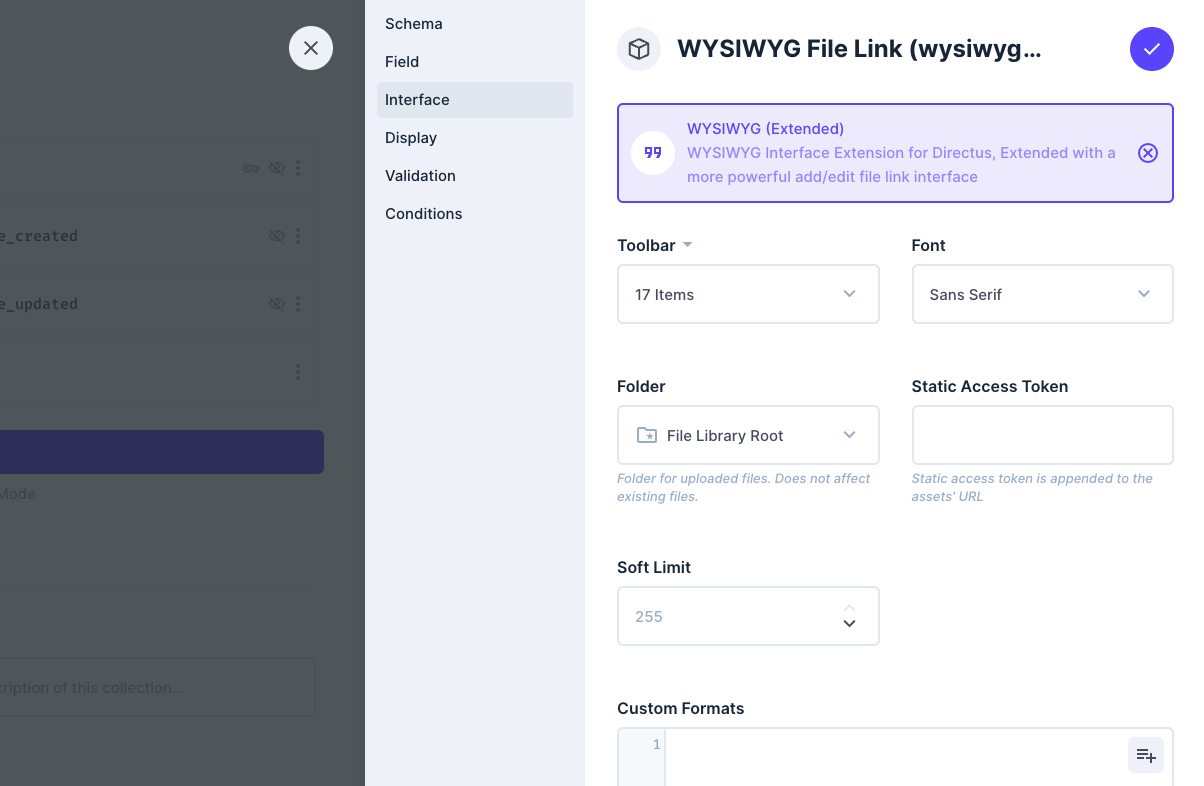
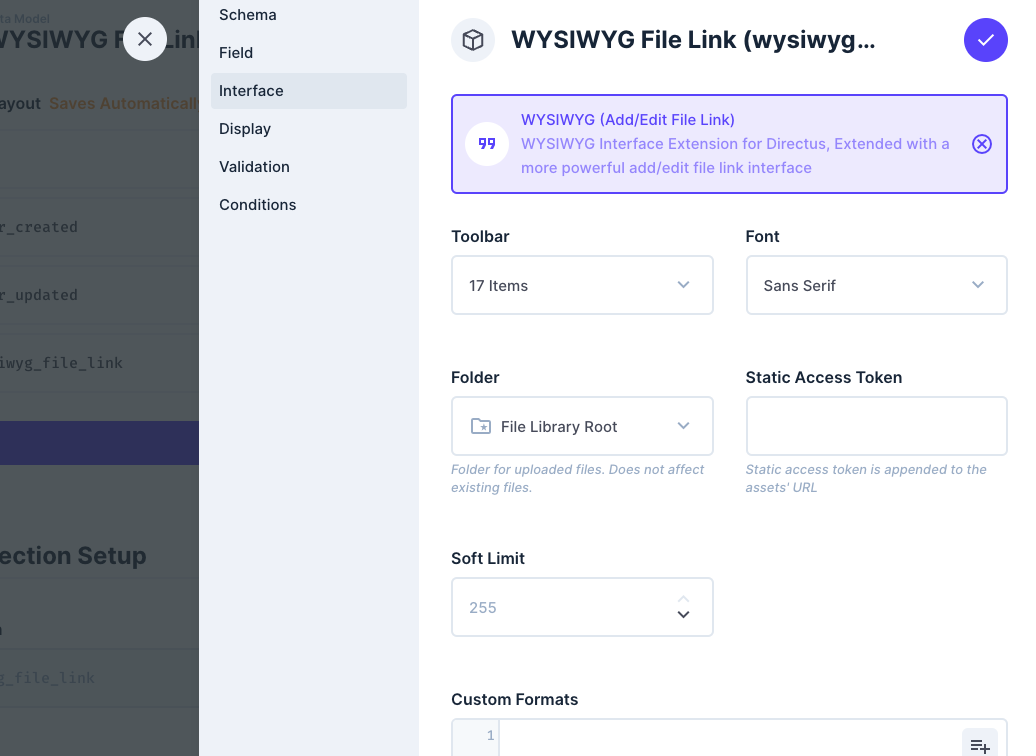
DOCS: update readme + screenshots

diff --git a/packages/input-rich-text-html-file-link/README.md b/packages/input-rich-text-html-file-link/README.md
@@ -1,5 +1,5 @@
-# WYSIWYS Interface (Extended)
-An extended WYSIWYG Interface which allows to add some additional data to images.
+# WYSIWYG (Add/Edit File Link)
+An extended WYSIWYG Interface which allows to add links to files.
 
 
 ## Installation
@@ -11,7 +11,7 @@ Simply create a text-field and select the `WYSIWYG (Add/Edit File Link)` interfa
 
 ![](https://raw.githubusercontent.com/directus-labs/extensions/main/packages/input-rich-text-html-file-link/docs/interface.png)
 
-By default the interface will have the default `Add / Edit Image` and the newly added `Add/Edit File Link` enabled. The `Add/Edit File Link` action is fully compatible with the `Add / Edit Image`  and can be used as a replacement.
+By default the interface will have the newly added `Add/Edit File Link` enabled.
 
 ![](https://raw.githubusercontent.com/directus-labs/extensions/main/packages/input-rich-text-html-file-link/docs/toolbar.png)
 
